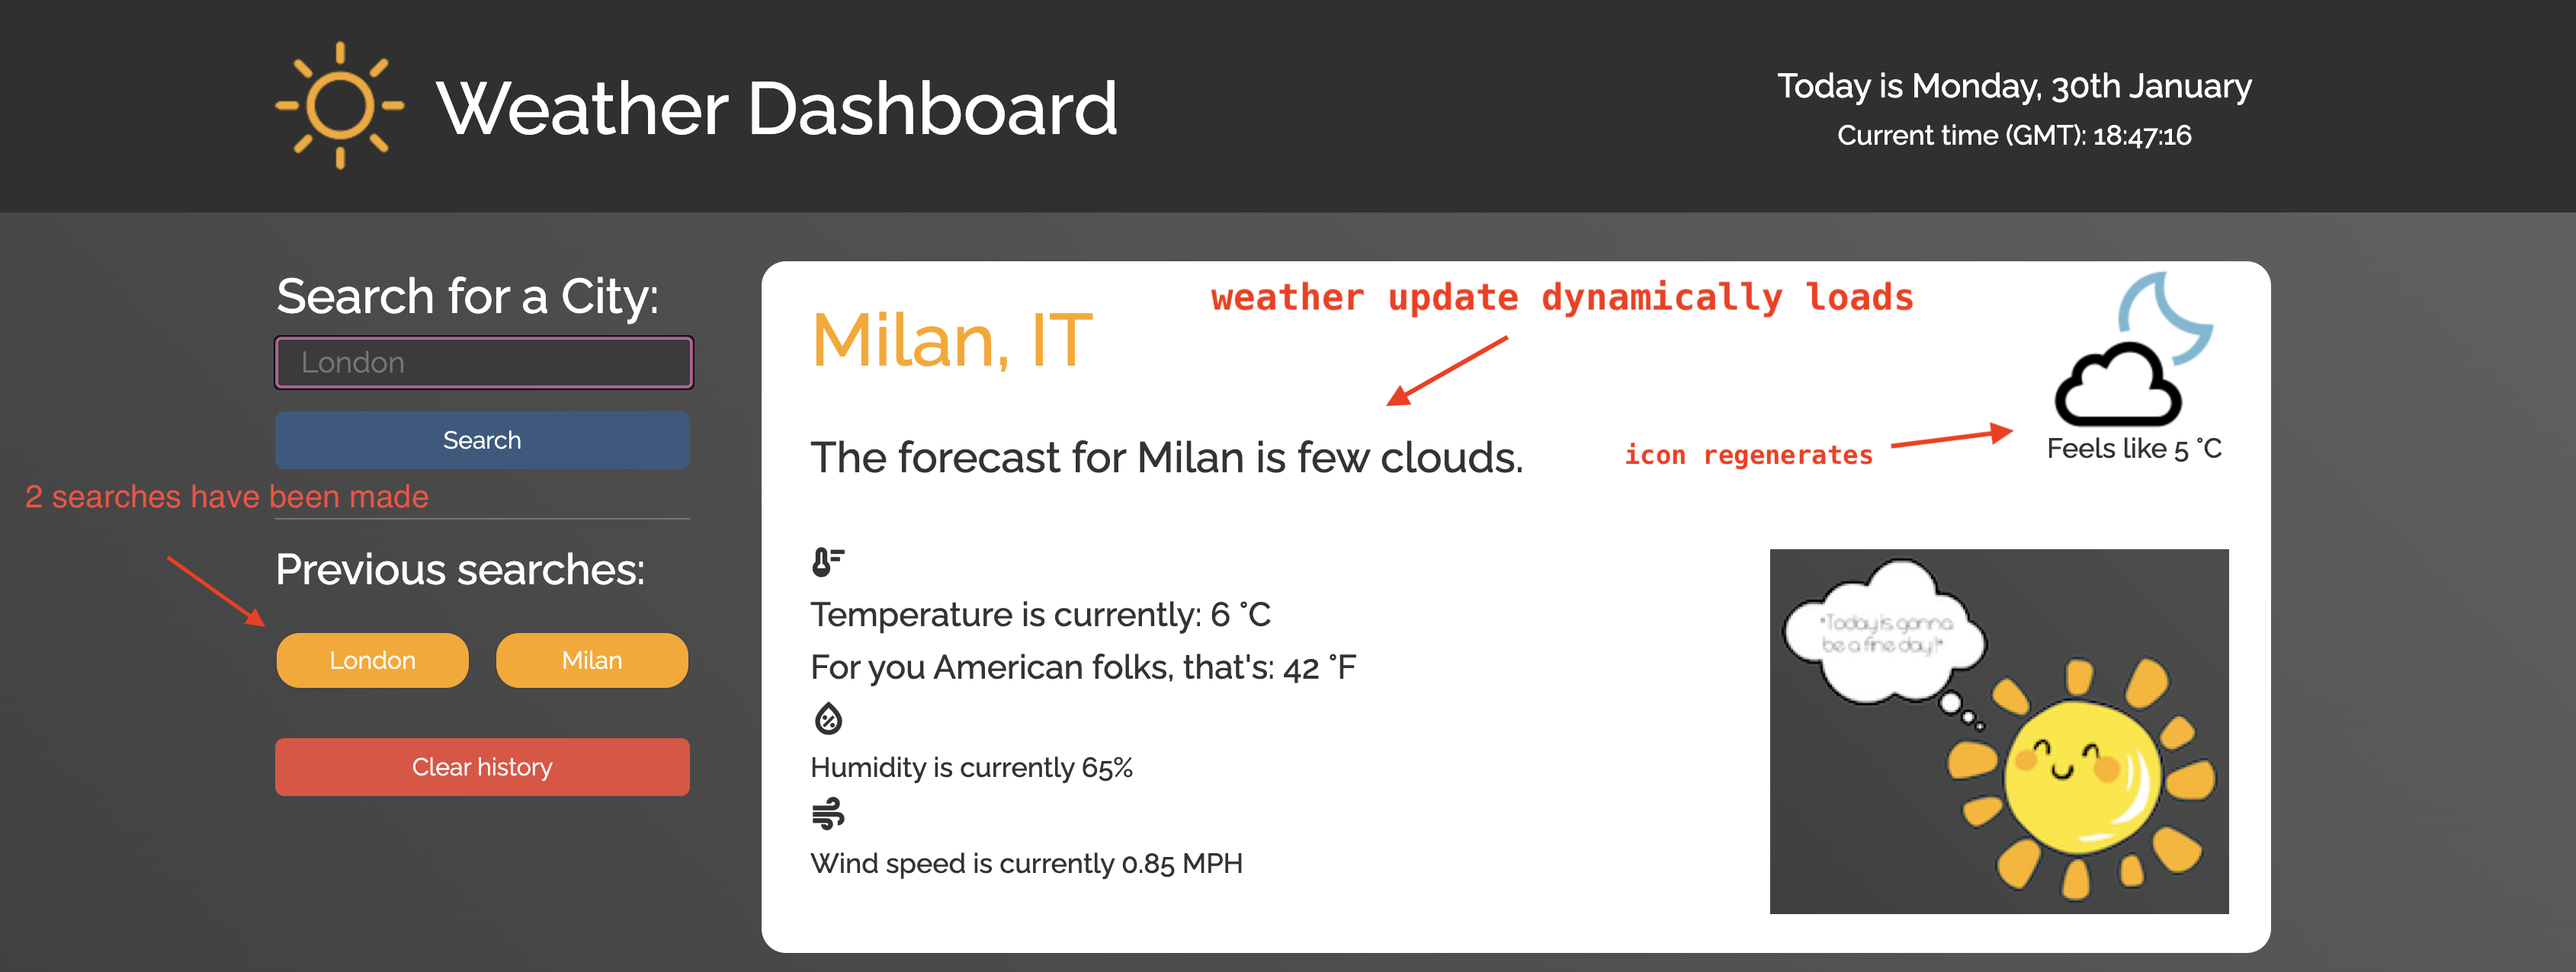
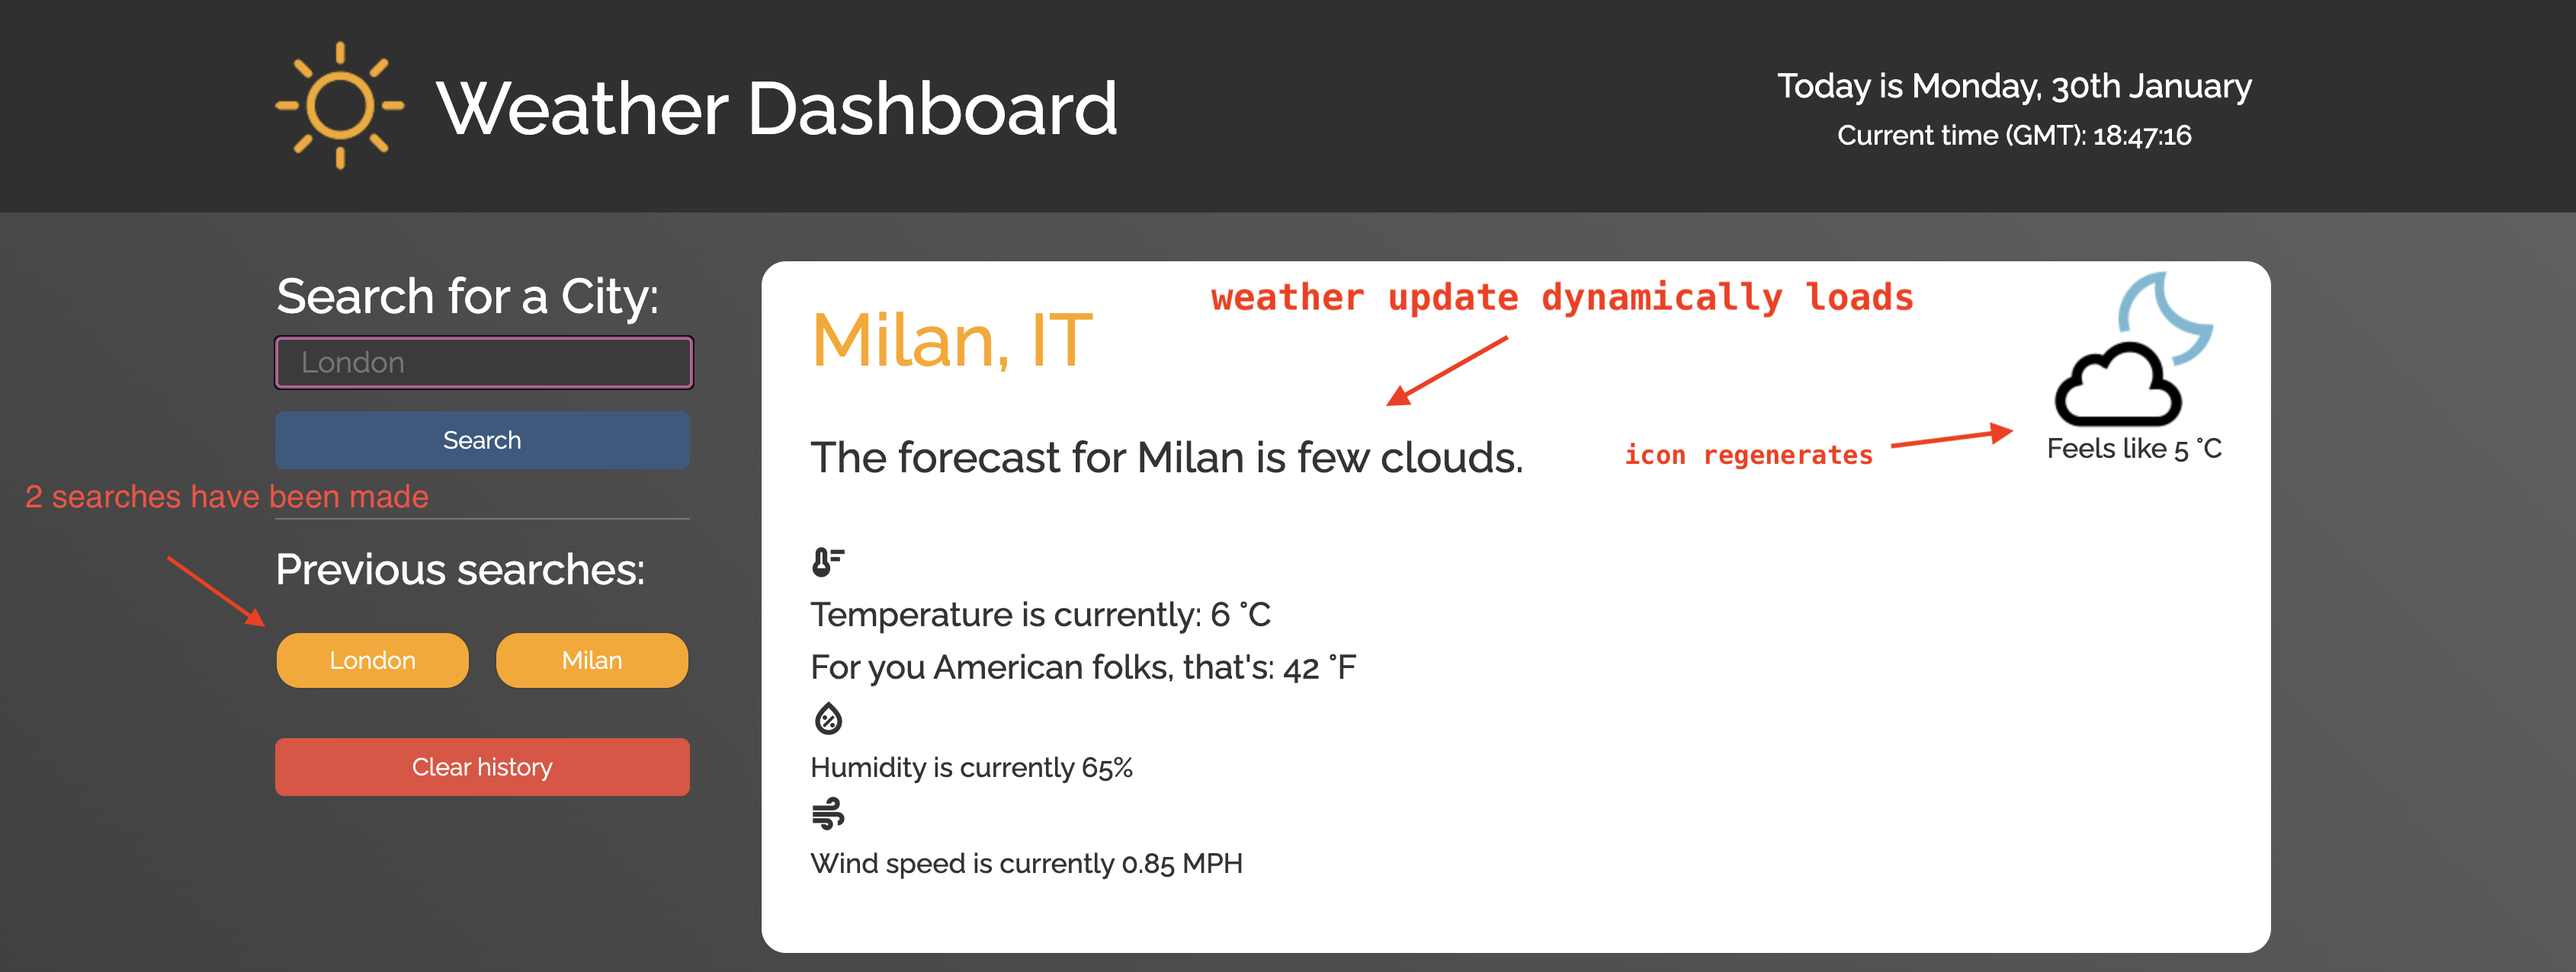
duplicate buttons solved, cute sunny image generates to fill viewer gap

Changed region(s): [[0.6836, 0.5502, 0.8701, 0.9475]]

diff --git a/assets/scripts/data.js b/assets/scripts/data.js
@@ -75,12 +75,19 @@ searchBtn.addEventListener("click", function (event) {
         viewerPane.style.backgroundColor = '#fff';
     }
 
-    // push the city to the searchHistory
-    searchHistory.push(location);
-    console.log('history array has value(s):', searchHistory)
+    // check if value is in the array
 
-    // set new item to local 
+    if (searchHistory.includes(location)) {
+        console.log('value already in the array')
+        alert('value already in the array.  Try again.')
+    } else {
+    // push item to array
+    searchHistory.push(location) 
+    console.log('history array has value(s):', searchHistory)
+    // save to local 
     localStorage.setItem('search-history', JSON.stringify(searchHistory));
+
+    }
 
     // clear the search bar
     userInput.innerHTML = '';

diff --git a/assets/scripts/generate.js b/assets/scripts/generate.js
@@ -139,6 +139,16 @@ function generateElements(data) {
     // generate the icon
     weatherIcon.innerHTML = `<img src="./assets/images/icons/${icon}.png">`;
 
+    // add cute sunny image to fill bottom corner of viewer
+    // add to current - float right?
+    let sunnyIcon = document.createElement('img');
+    sunnyIcon.src = "./assets/images/logos/sunshine_mini.png";
+    sunnyIcon.classList.add('sunny-img');
+    sunnyIcon.style.float = 'right';
+    sunnyIcon.style.marginTop = '-10rem'
+    sunnyIcon.style.width = '200px';
+    current.appendChild(sunnyIcon)
+
 }
 
 // 5-day forecast elements generation

diff --git a/README.md b/README.md
@@ -26,7 +26,7 @@
 <br />
 <div align="center">
   <a href="https://github.com/Matt-Jones-Developer/fine_days_weather_dashboard">
-    <!-- <img src="assets/images/screenshots/logo-icon.png" alt="Logo" width="150" height="150"> -->
+    <img src="assets/images/screenshots/logo.png" alt="Logo" width="100" height="100">
   </a>
 
 #
